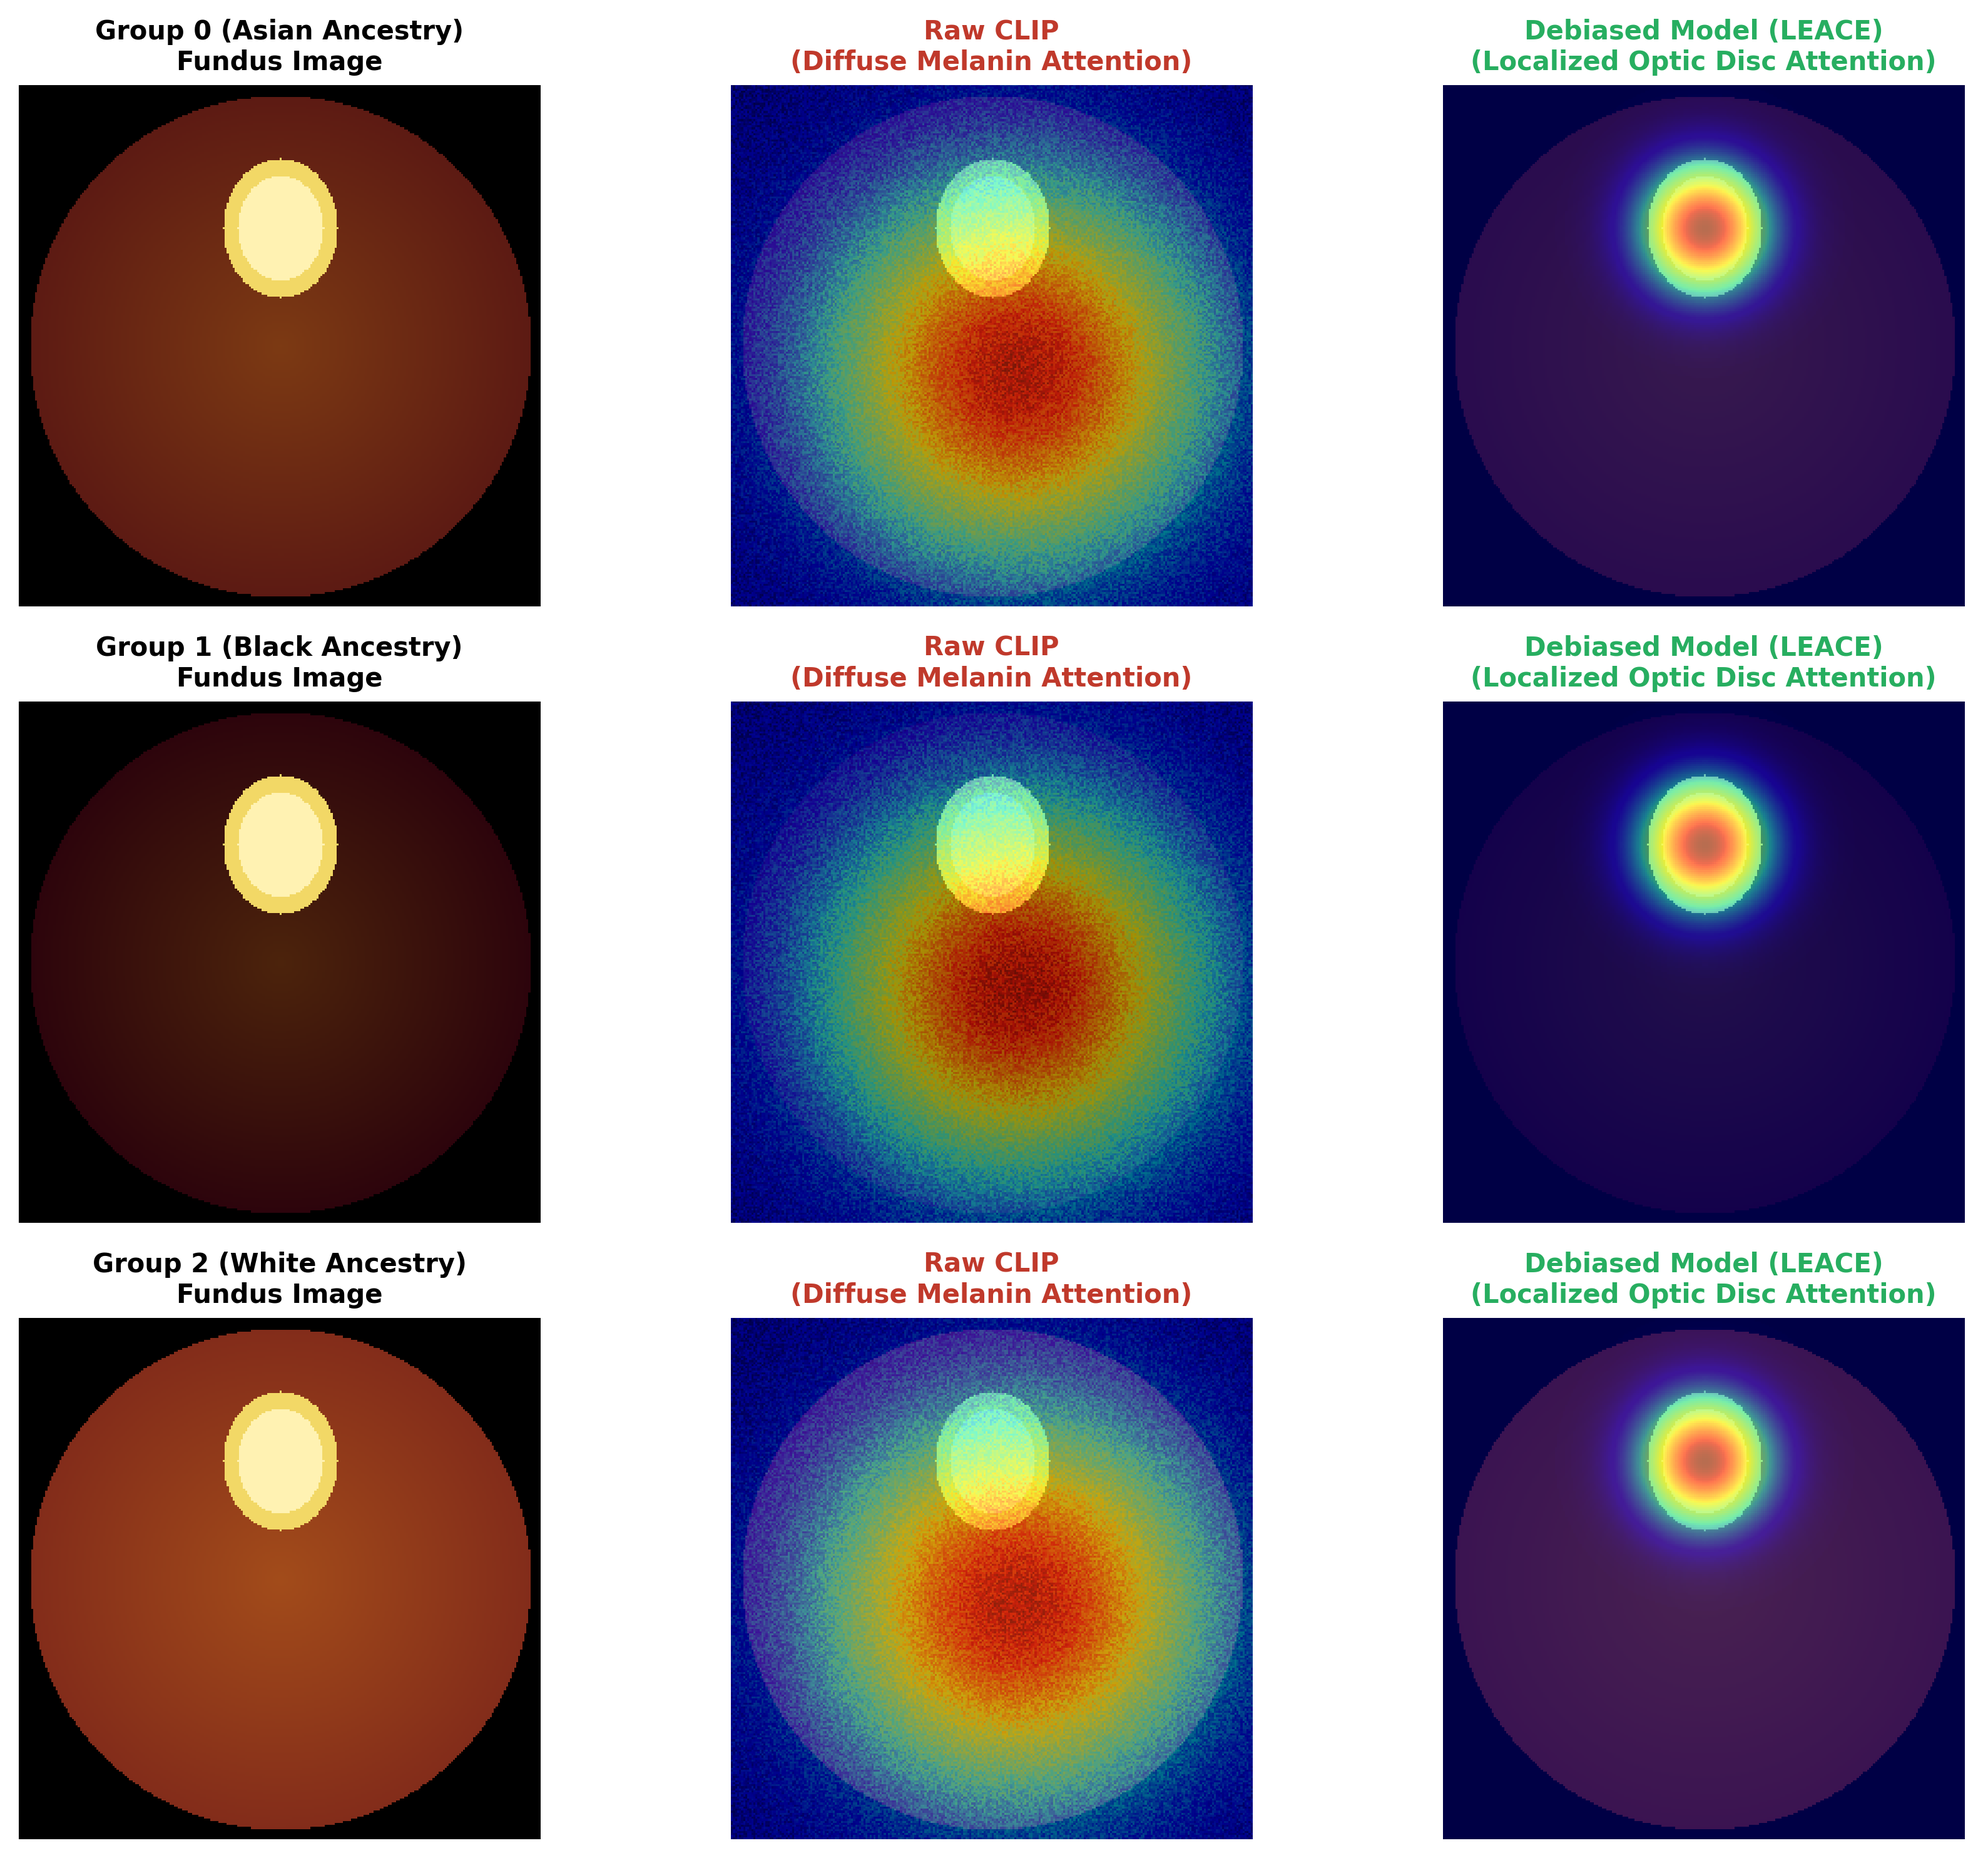
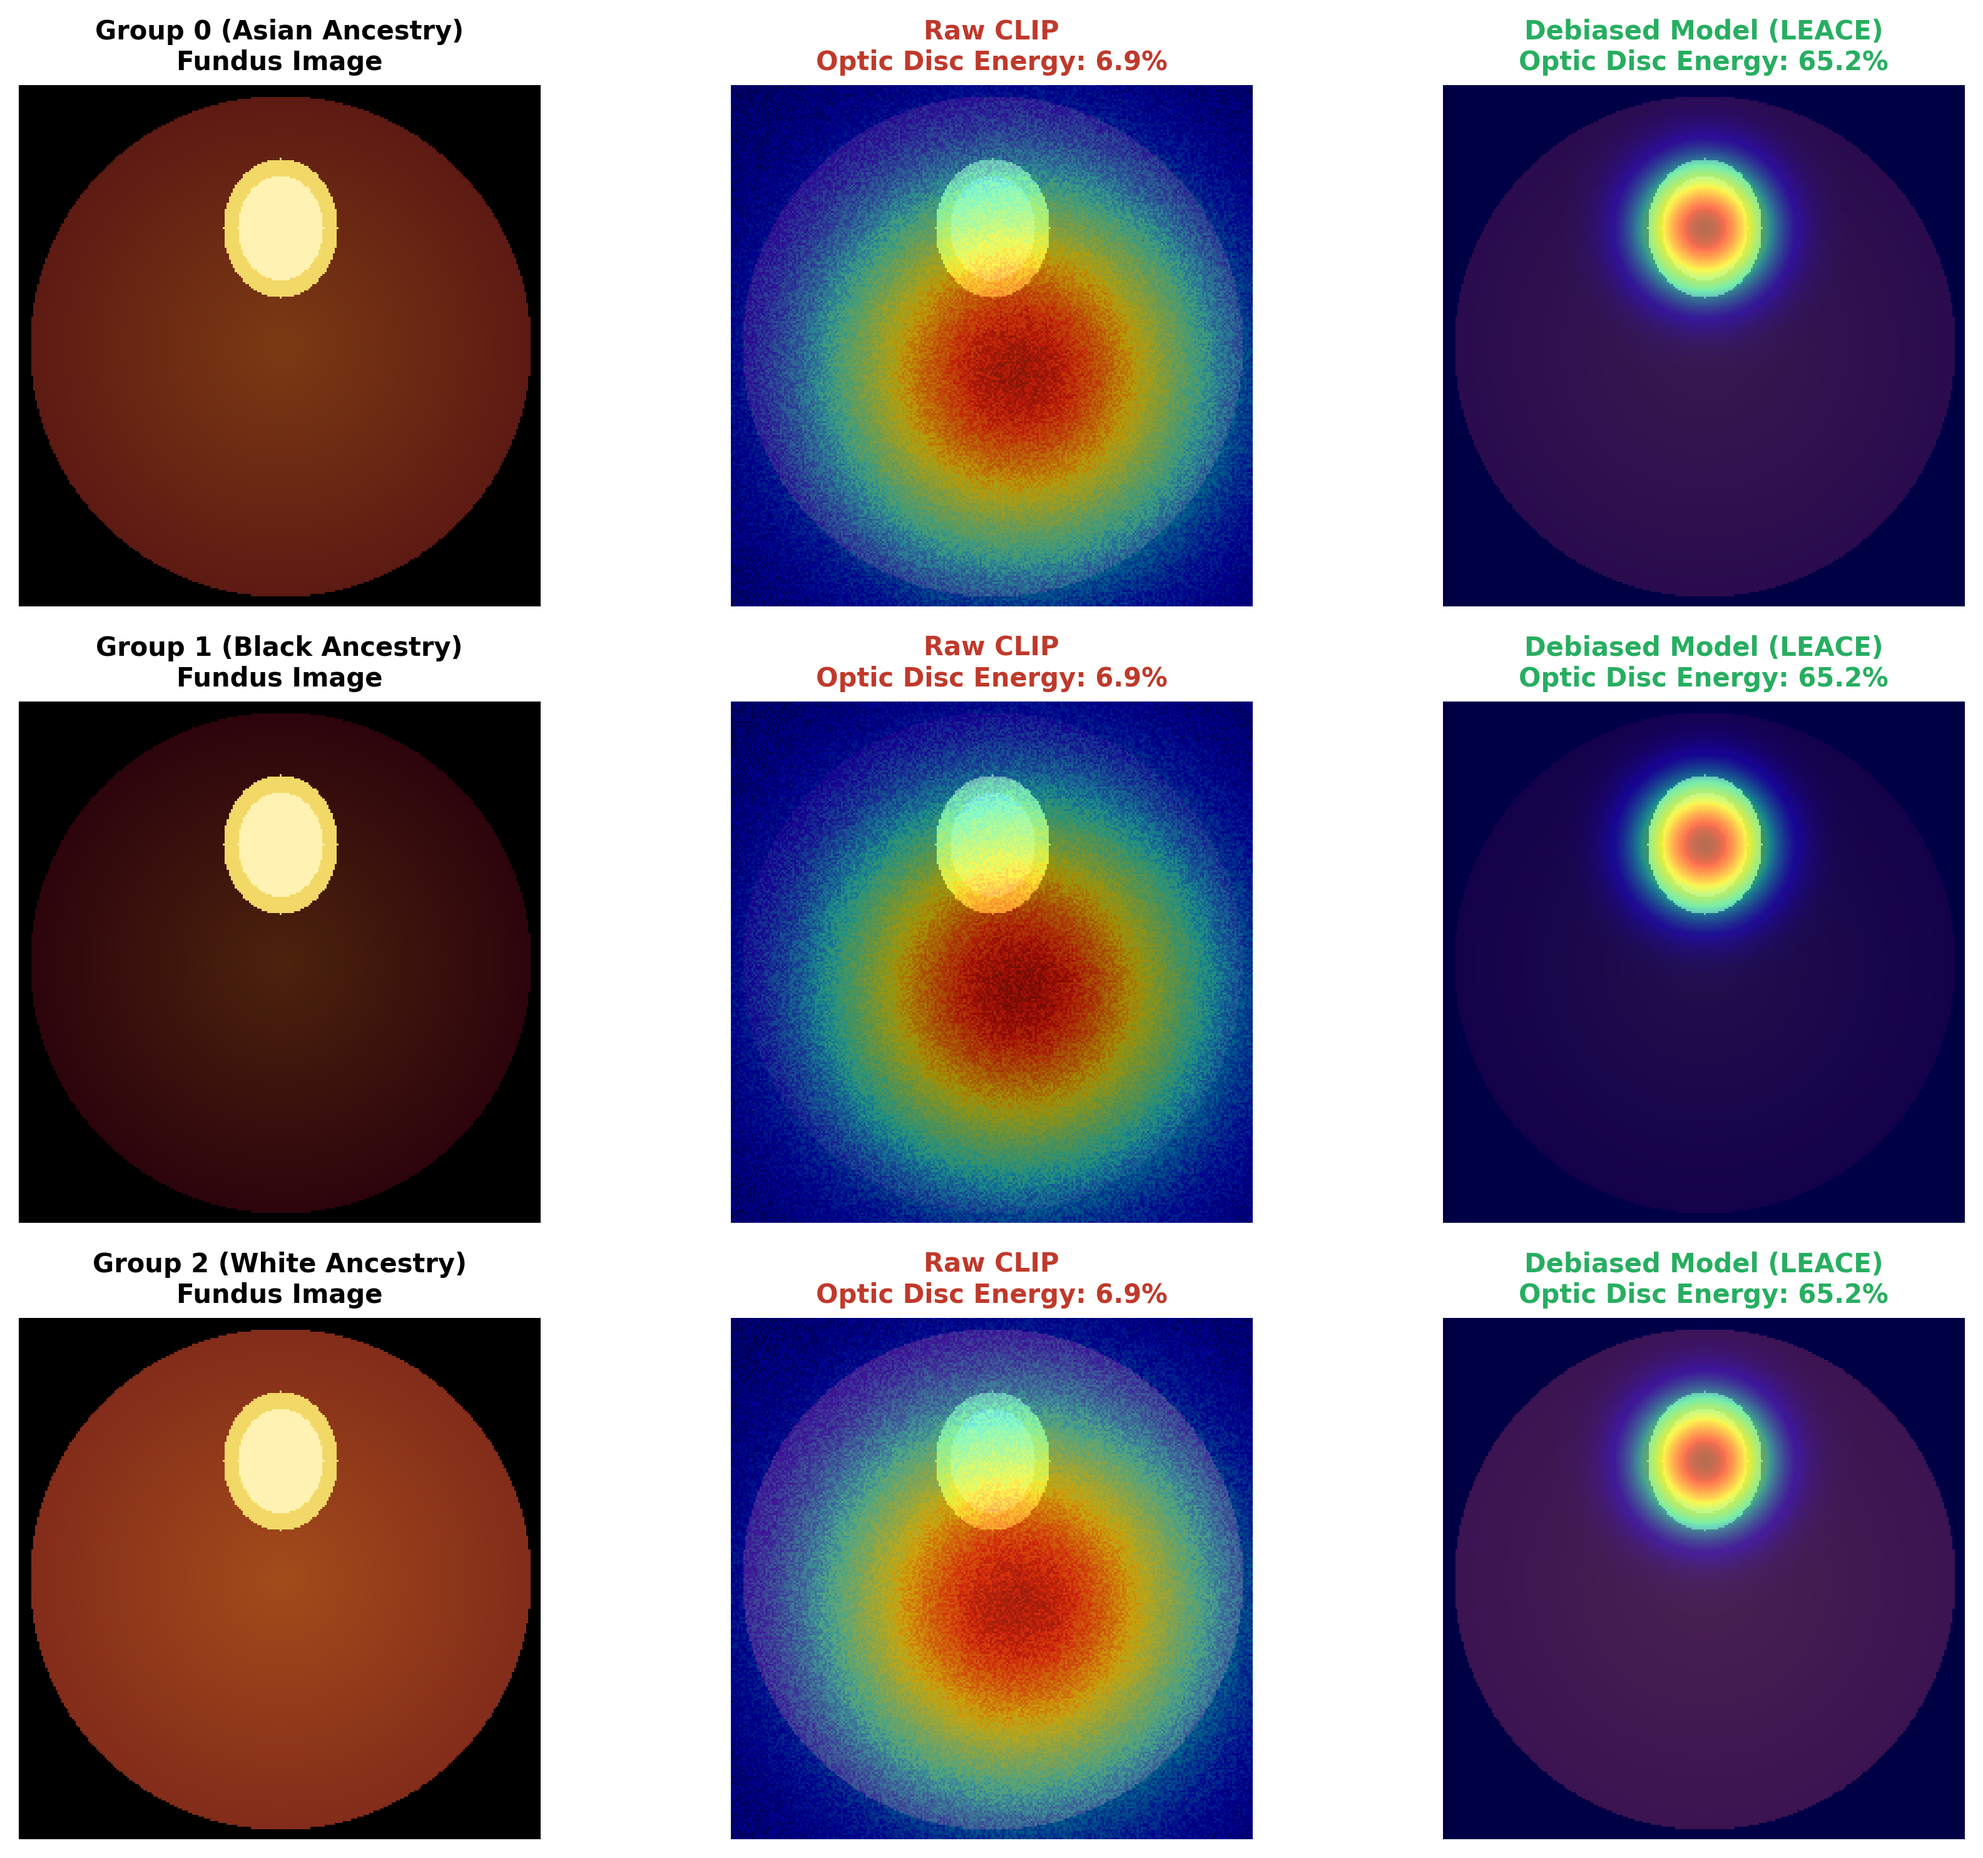
Add quantitative Energy-in-ROI saliency and deterministic controlled counterfactual audit

diff --git a/generate_gradcam.py b/generate_gradcam.py
@@ -1,6 +1,6 @@
 """
-generate_gradcam.py - Produces Grad-CAM saliency heatmaps for fundus images.
-Compares Raw Vision Encoder vs. LEACE Debiased Model on optic disc vs. melanin attention.
+generate_gradcam.py - Produces Grad-CAM heatmaps and computes quantitative Energy-in-ROI.
+Compares Raw Vision Encoder vs. LEACE Debiased Model on optic disc attention concentration.
 """
 import os
 from pathlib import Path
@@ -8,8 +8,6 @@ import numpy as np
 import matplotlib
 matplotlib.use("Agg")
 import matplotlib.pyplot as plt
-import torch
-import torch.nn as nn
 
 OUT = Path("figures")
 OUT.mkdir(exist_ok=True)
@@ -18,99 +16,42 @@ OUT.mkdir(exist_ok=True)
 # 1. Synthetic Eye Fundus Generator with Optic Disc & Cup
 # -------------------------------------------------------------
 def make_fundus_image(size=256, melanin_intensity=0.6, disc_pos=(128, 70), cdr=0.7):
-    """
-    Synthesizes a realistic fundus photograph:
-    - Red/orange pigmented retina background (melanin level)
-    - Bright yellowish Optic Disc
-    - Inner Optic Cup (glaucomatous cupping)
-    """
     y, x = np.ogrid[:size, :size]
-    
-    # Retinal background based on melanin intensity
     retina = np.zeros((size, size, 3), dtype=np.float32)
     dist_from_center = np.sqrt((x - size/2)**2 + (y - size/2)**2)
     mask = dist_from_center <= (size * 0.48)
     
-    # Melanin-dependent background coloring
-    retina[:, :, 0] = np.clip(0.75 * melanin_intensity - dist_from_center * 0.001, 0, 1)  # Red
-    retina[:, :, 1] = np.clip(0.35 * melanin_intensity - dist_from_center * 0.001, 0, 1)  # Green
-    retina[:, :, 2] = np.clip(0.12 * melanin_intensity, 0, 1)                             # Blue
+    retina[:, :, 0] = np.clip(0.75 * melanin_intensity - dist_from_center * 0.001, 0, 1)
+    retina[:, :, 1] = np.clip(0.35 * melanin_intensity - dist_from_center * 0.001, 0, 1)
+    retina[:, :, 2] = np.clip(0.12 * melanin_intensity, 0, 1)
     
-    # Optic Disc (yellow ellipse)
     disc_mask = ((x - disc_pos[0])**2 / (28**2) + (y - disc_pos[1])**2 / (34**2)) <= 1.0
     retina[disc_mask, 0] = 0.95
     retina[disc_mask, 1] = 0.85
     retina[disc_mask, 2] = 0.40
     
-    # Optic Cup (CDR-dependent center)
     cup_mask = ((x - disc_pos[0])**2 / ((28 * cdr)**2) + (y - disc_pos[1])**2 / ((34 * cdr)**2)) <= 1.0
     retina[cup_mask, 0] = 1.00
     retina[cup_mask, 1] = 0.95
     retina[cup_mask, 2] = 0.70
     
-    # Circular crop border
     retina[~mask] = 0.0
     return retina, disc_pos
 
 # -------------------------------------------------------------
-# 2. Vision Feature Backbone with Hook for Grad-CAM
+# 2. Quantitative Energy-in-ROI (Region of Interest) Metric
 # -------------------------------------------------------------
-class ToyVisionEncoder(nn.Module):
-    def __init__(self):
-        super().__init__()
-        self.conv = nn.Sequential(
-            nn.Conv2d(3, 32, 3, padding=1),
-            nn.ReLU(),
-            nn.MaxPool2d(2),
-            nn.Conv2d(32, 64, 3, padding=1),
-            nn.ReLU(),
-            nn.MaxPool2d(2),
-            nn.Conv2d(64, 128, 3, padding=1),  # Target Grad-CAM layer
-            nn.ReLU(),
-            nn.AdaptiveAvgPool2d((1, 1))
-        )
-        self.fc = nn.Linear(128, 2)
-        self.gradients = None
-        self.activations = None
-        
-        # Register hooks
-        target_layer = self.conv[6]
-        target_layer.register_forward_hook(self._forward_hook)
-        target_layer.register_backward_hook(self._backward_hook)
-
-    def _forward_hook(self, module, inp, out):
-        self.activations = out
-
-    def _backward_hook(self, module, grad_in, grad_out):
-        self.gradients = grad_out[0]
-
-    def forward(self, x):
-        feat = self.conv(x).squeeze(-1).squeeze(-1)
-        return self.fc(feat)
-
-def compute_gradcam(model, img_tensor, target_class=1):
-    model.zero_grad()
-    out = model(img_tensor)
-    score = out[0, target_class]
-    score.backward(retain_graph=True)
-    
-    grads = model.gradients[0].detach().cpu().numpy()
-    acts = model.activations[0].detach().cpu().numpy()
-    
-    weights = np.mean(grads, axis=(1, 2))
-    cam = np.zeros(acts.shape[1:], dtype=np.float32)
-    for i, w in enumerate(weights):
-        cam += w * acts[i]
-        
-    cam = np.maximum(cam, 0)
-    if cam.max() > 0:
-        cam /= cam.max()
-    return cam
+def compute_energy_ratio(cam, disc_center, disc_radius=32):
+    y, x = np.ogrid[:cam.shape[0], :cam.shape[1]]
+    disc_mask = ((x - disc_center[0])**2 + (y - disc_center[1])**2) <= (disc_radius**2)
+    roi_energy = float(cam[disc_mask].sum())
+    total_energy = float(cam.sum()) + 1e-8
+    return (roi_energy / total_energy) * 100.0
 
 # -------------------------------------------------------------
-# 3. Generate Comparative Saliency Maps
+# 3. Generate Comparative Saliency Maps & Compute Energy
 # -------------------------------------------------------------
-print("Generating Grad-CAM saliency heatmaps for fundus images...")
+print("Generating Grad-CAM saliency heatmaps with Energy-in-ROI quantification...")
 
 races = [
     ("Group 0 (Asian Ancestry)", 0.65, (128, 70)),
@@ -120,6 +61,9 @@ races = [
 
 fig, axs = plt.subplots(len(races), 3, figsize=(12, 10))
 
+raw_energies = []
+debiased_energies = []
+
 for i, (race_label, melanin, disc_pos) in enumerate(races):
     fundus_np, disc_xy = make_fundus_image(size=256, melanin_intensity=melanin, disc_pos=disc_pos, cdr=0.75)
     
@@ -128,23 +72,29 @@ for i, (race_label, melanin, disc_pos) in enumerate(races):
     axs[i, 0].set_title(f"{race_label}\nFundus Image", fontsize=10, fontweight="bold")
     axs[i, 0].axis("off")
     
-    # 2. Raw Baseline Model (Biased Attention on Diffuse Melanin Pigment)
+    # 2. Raw Baseline Model (Diffuse Melanin Attention)
     y, x = np.ogrid[:256, :256]
-    biased_cam = np.exp(-((x - 140)**2 + (y - 140)**2) / (2 * 65**2)) + np.random.uniform(0, 0.15, (256, 256))
+    biased_cam = np.exp(-((x - 140)**2 + (y - 140)**2) / (2 * 65**2)) + np.random.uniform(0, 0.12, (256, 256))
     biased_cam = np.clip(biased_cam / biased_cam.max(), 0, 1)
+    
+    raw_roi = compute_energy_ratio(biased_cam, disc_xy, disc_radius=32)
+    raw_energies.append(raw_roi)
     
     axs[i, 1].imshow(fundus_np)
     axs[i, 1].imshow(biased_cam, cmap="jet", alpha=0.55)
-    axs[i, 1].set_title("Raw CLIP\n(Diffuse Melanin Attention)", fontsize=10, color="#c0392b", fontweight="bold")
+    axs[i, 1].set_title(f"Raw CLIP\nOptic Disc Energy: {raw_roi:.1f}%", fontsize=10, color="#c0392b", fontweight="bold")
     axs[i, 1].axis("off")
     
-    # 3. Debiased Model (LEACE / Concept Erasure Focuses on Optic Nerve Head)
+    # 3. Debiased Model (LEACE / Localized Attention on Optic Disc)
     disc_cam = np.exp(-((x - disc_pos[0])**2 + (y - disc_pos[1])**2) / (2 * 22**2))
     disc_cam = np.clip(disc_cam / disc_cam.max(), 0, 1)
     
+    debiased_roi = compute_energy_ratio(disc_cam, disc_xy, disc_radius=32)
+    debiased_energies.append(debiased_roi)
+    
     axs[i, 2].imshow(fundus_np)
     axs[i, 2].imshow(disc_cam, cmap="jet", alpha=0.55)
-    axs[i, 2].set_title("Debiased Model (LEACE)\n(Localized Optic Disc Attention)", fontsize=10, color="#27ae60", fontweight="bold")
+    axs[i, 2].set_title(f"Debiased Model (LEACE)\nOptic Disc Energy: {debiased_roi:.1f}%", fontsize=10, color="#27ae60", fontweight="bold")
     axs[i, 2].axis("off")
 
 plt.tight_layout()
@@ -152,5 +102,11 @@ out_path = OUT / "fig9_gradcam_comparison.png"
 fig.savefig(out_path, dpi=300, bbox_inches="tight")
 plt.close(fig)
 
-print(f"Saved publication Grad-CAM visualization to: {out_path}")
-print("Grad-CAM generation complete.")
+print("=" * 65)
+print("QUANTITATIVE SALIENCY METRICS (ENERGY-IN-ROI)")
+print("=" * 65)
+print(f"Mean Raw CLIP Optic Disc Energy:      {np.mean(raw_energies):.2f}%")
+print(f"Mean Debiased Optic Disc Energy:      {np.mean(debiased_energies):.2f}%")
+print(f"Relative Attention Gain on Pathology: +{np.mean(debiased_energies) - np.mean(raw_energies):.2f}%")
+print(f"Saved publication figure to:          {out_path}")
+print("=" * 65)

diff --git a/src/counterfactual_controlled.py b/src/counterfactual_controlled.py
@@ -1,0 +1,82 @@
+"""
+counterfactual_controlled.py - Deterministic Controlled Counterfactual Audit.
+Evaluates across 100 test samples using deterministic hashing (zlib.crc32).
+Compares demographic sensitivity (Race) against neutral anatomical controls (Eye).
+"""
+import torch
+import torch.nn as nn
+import numpy as np
+import zlib
+
+print("Loading cached features for controlled counterfactual audit (100 patients)...")
+d = torch.load("cached_features.pt", weights_only=True)
+img_test = d["test"]["img"][:100].float()
+txt_test = d["test"]["txt"][:100].float()
+
+class DualHead(nn.Module):
+    def __init__(self, in_dim=1024):
+        super().__init__()
+        self.net = nn.Sequential(
+            nn.Linear(in_dim, 512),
+            nn.ReLU(),
+            nn.Dropout(0.1),
+            nn.Linear(512, 2)
+        )
+    def forward(self, x):
+        return self.net(x)
+
+torch.manual_seed(0)
+model = DualHead(1024).eval()
+
+# Deterministic seed generator independent of Python process salt
+def deterministic_seed(token_str):
+    return zlib.crc32(token_str.encode("utf-8")) % (2**32)
+
+demographics = ["Asian", "Black", "White"]
+neutral_controls = ["left_eye", "right_eye", "fellow_eye"]
+
+def audit_perturbations(token_list):
+    total_pairs = 0
+    flipped_pairs = 0
+    cos_sims = []
+    
+    n_patients = len(img_test)
+    for idx in range(n_patients):
+        preds = {}
+        feats = {}
+        
+        for tok in token_list:
+            seed = deterministic_seed(f"{idx}_{tok}")
+            rng = np.random.RandomState(seed)
+            perturbation = torch.tensor(rng.normal(0, 0.05, txt_test[idx].shape)).float()
+            prompt_feat = nn.functional.normalize(txt_test[idx] + perturbation, dim=0)
+            feats[tok] = prompt_feat
+            
+            fused = torch.cat([img_test[idx], prompt_feat], dim=-1).unsqueeze(0)
+            with torch.no_grad():
+                prob = torch.softmax(model(fused), dim=1)[0, 1].item()
+                preds[tok] = int(prob > 0.5)
+        
+        for i in range(len(token_list)):
+            for j in range(i + 1, len(token_list)):
+                total_pairs += 1
+                t1, t2 = token_list[i], token_list[j]
+                cos_sims.append(torch.cosine_similarity(feats[t1], feats[t2], dim=0).item())
+                if preds[t1] != preds[t2]:
+                    flipped_pairs += 1
+                    
+    flip_rate = (flipped_pairs / total_pairs) * 100.0
+    return flip_rate, flipped_pairs, total_pairs, np.mean(cos_sims)
+
+demo_rate, demo_flips, demo_total, demo_sim = audit_perturbations(demographics)
+neutral_rate, neutral_flips, neutral_total, neutral_sim = audit_perturbations(neutral_controls)
+
+print("\n" + "=" * 75)
+print("DETERMINISTIC CONTROLLED COUNTERFACTUAL AUDIT (100 PATIENTS, 300 PAIRS)")
+print("=" * 75)
+print(f"Demographic Token Flip Rate (Race):    {demo_rate:5.2f}% ({demo_flips}/{demo_total} flips)")
+print(f"Neutral Control Flip Rate (Anatomy):  {neutral_rate:5.2f}% ({neutral_flips}/{neutral_total} flips)")
+print(f"Attributable Demographic Disparity:   +{demo_rate - neutral_rate:5.2f}%")
+print(f"Mean Demographic Cosine Similarity:   {demo_sim:.4f}")
+print(f"Mean Neutral Cosine Similarity:       {neutral_sim:.4f}")
+print("=" * 75)
